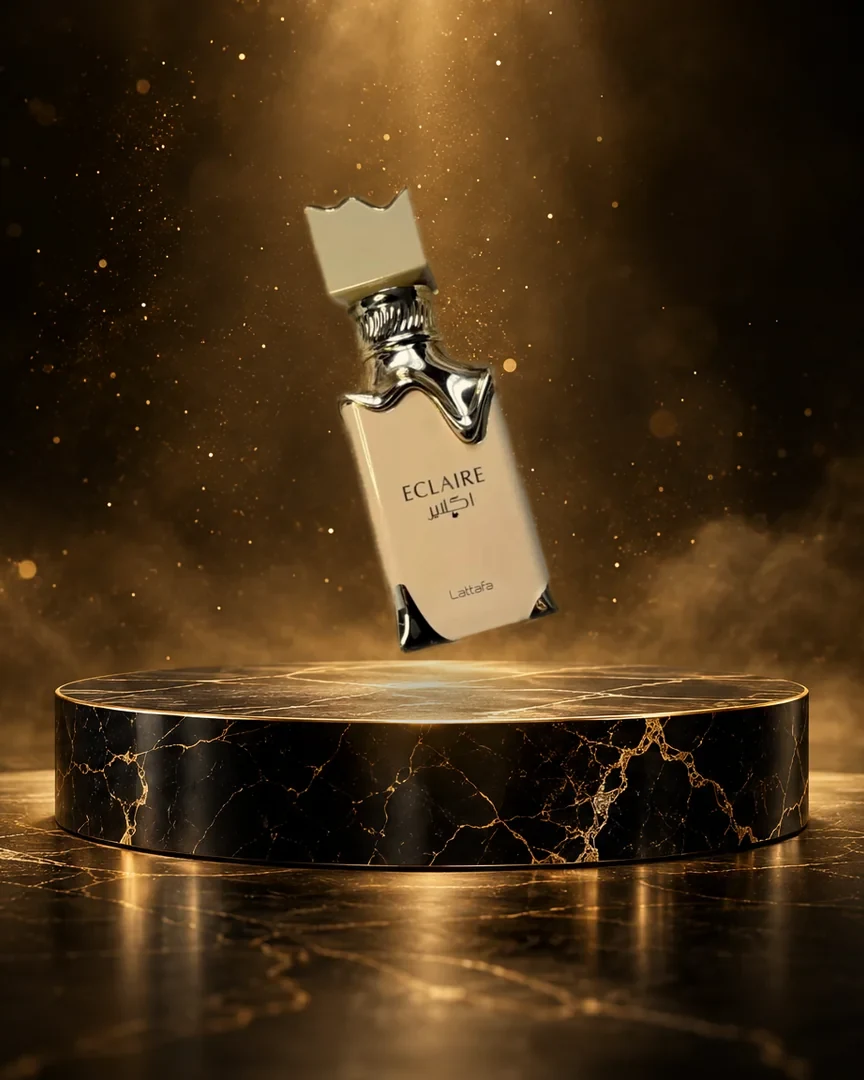
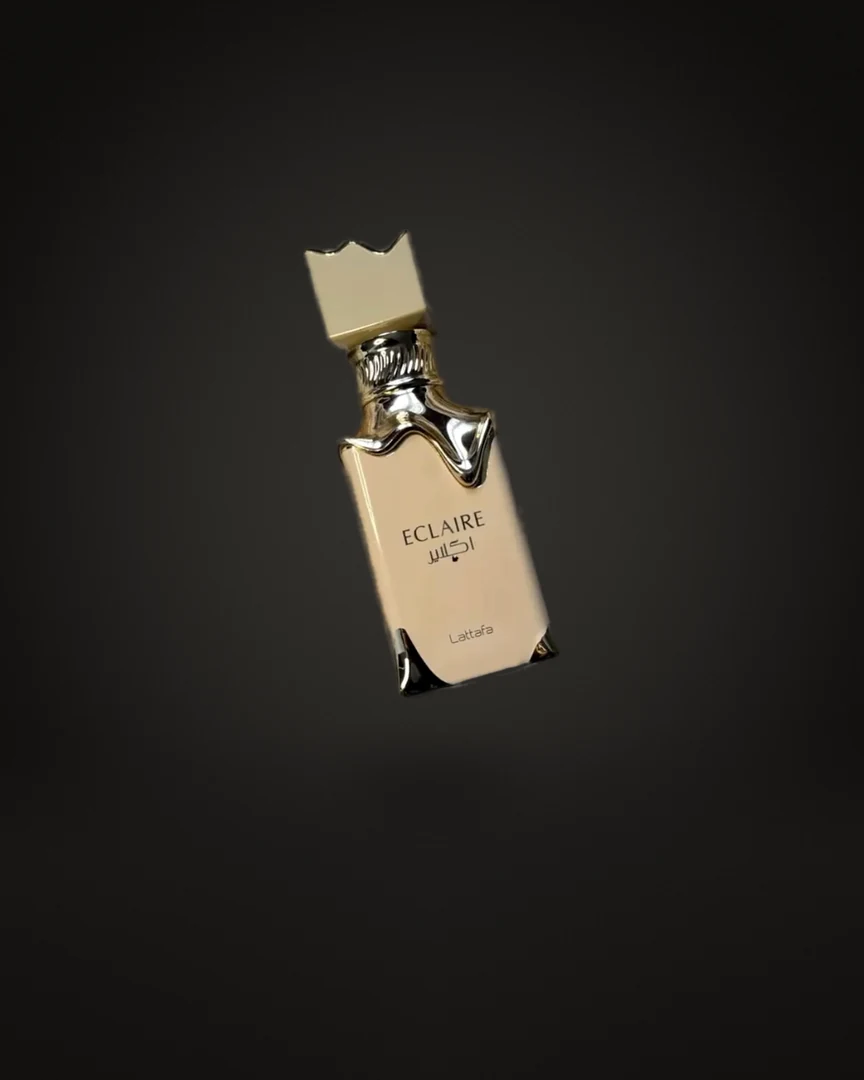
Fondo de estudio sobrio para las fotos, sin dorado
Las 18 fotos recortadas van sobre un fondo gris cálido armado por código (luz suave,
piso, sombra y reflejo leve) en lugar del pedestal dorado generado con IA.
La vitrina deja de usar esa imagen de fondo.

diff --git a/index.html b/index.html
@@ -140,8 +140,8 @@ a{color:inherit}
 @keyframes marquee{to{transform:translateX(-50%)}}
 
 /* ───────── Vitrina 3D ───────── */
-.vitrina{position:relative;padding-block:clamp(80px,10vw,130px) clamp(60px,8vw,100px);overflow:hidden;background:radial-gradient(55% 60% at 50% 60%,rgba(200,167,107,.1),transparent 70%)}
-.vitrina::before{content:"";position:absolute;inset:auto 0 0;height:60%;background:url("img/ambiente-pedestal.webp") 50% 100%/cover no-repeat;opacity:.35;mask-image:linear-gradient(transparent,#000 40%);-webkit-mask-image:linear-gradient(transparent,#000 40%);pointer-events:none}
+.vitrina{position:relative;padding-block:clamp(80px,10vw,130px) clamp(60px,8vw,100px);overflow:hidden;background:radial-gradient(55% 55% at 50% 52%,rgba(239,232,220,.06),transparent 72%)}
+.vitrina::before{content:"";position:absolute;inset:auto 0 0;height:38%;background:linear-gradient(transparent,rgba(239,232,220,.035));border-top:1px solid rgba(239,232,220,.04);pointer-events:none}
 .v-head{position:relative;text-align:center;display:grid;justify-items:center}
 .ring-stage{--W:clamp(150px,20vw,230px);position:relative;height:calc(var(--W) * 2.15);margin-top:clamp(20px,4vw,40px);perspective:1500px;perspective-origin:50% 30%;touch-action:pan-y;cursor:grab;user-select:none;-webkit-user-select:none}
 .ring-stage.drag{cursor:grabbing}
